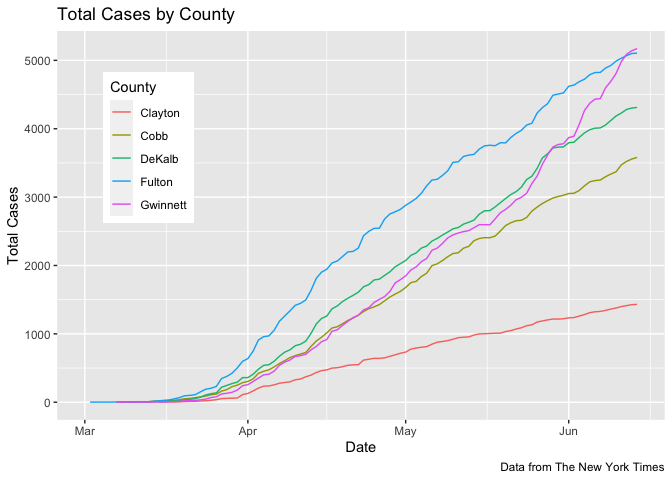
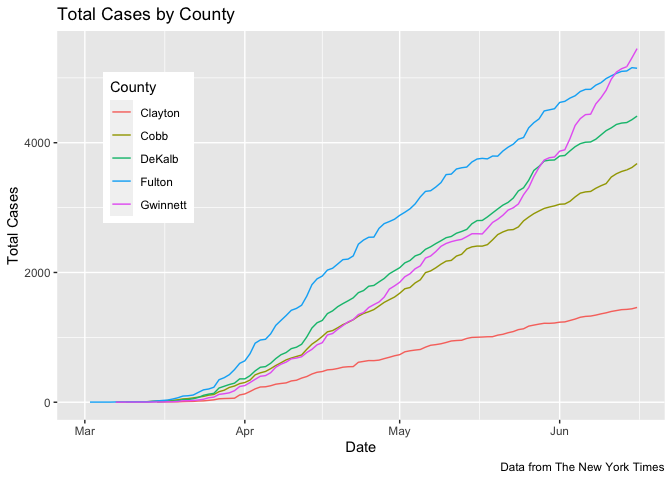
Updated data

diff --git a/Metro_Atlanta_COVID.md b/Metro_Atlanta_COVID.md
@@ -14,7 +14,7 @@ It’s hard to know how to interpret these numbers since there are major
 known unknowns. Neither confirmed cases nor deaths can be said to be
 reliable counts of the true numbers.
 
-Data current as of June 16, 2020.
+Data current as of June 17, 2020.
 
 # Metro Atlanta
 
